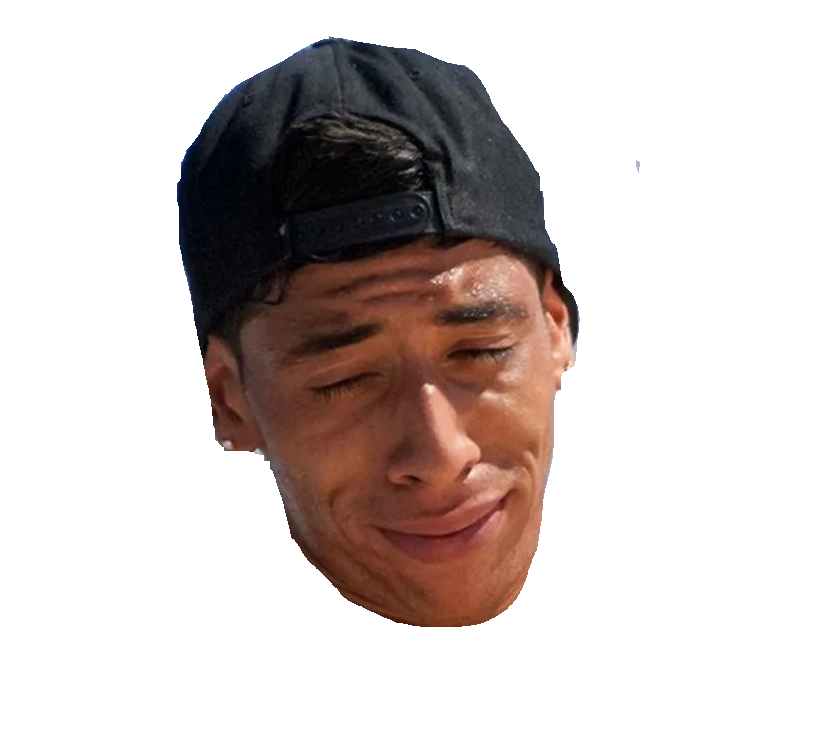
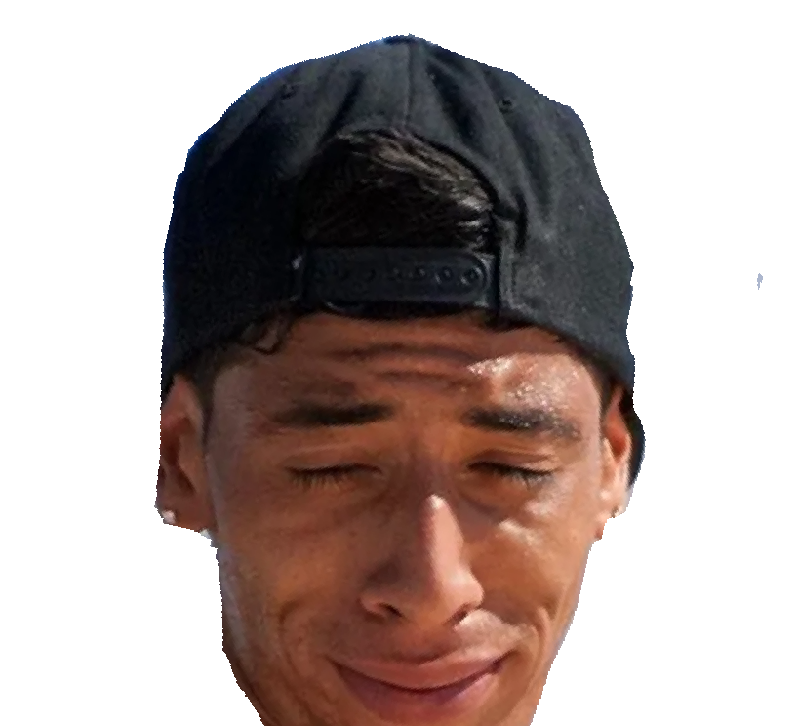
portraits housekeeping

diff --git a/src/data/winnersTable.js b/src/data/winnersTable.js
@@ -5,10 +5,10 @@ export const wins = [
 	 {year: 2004, basket3x3Pic: '',breakDancePic: '', fmbDirtJumpPic: '', mtbDowntownWomenPic: '',mtbDowntownMenPic: '', flatLandPic: '', bmxStreetPic: '', bmxParkWomenPic: '', bmxParkMenPic: '',miniRampPic: '',skateWomenPic: '', skateMenPic: 'images/chami.jpeg', basket3x3: "", breakDance: "", fmbDirtJump: "", mtbDowntownWomen: "",mtbDowntownMen: "", flatland: "", bmxStreet: "" ,bmxParkWomen: "", bmxParkMen: "", skateWomen: "", miniramp: "", skateMen: "Marcos Chami (ARG)"},
 	 {year: 2005, basket3x3Pic: '',breakDancePic: '', fmbDirtJumpPic: '', mtbDowntownWomenPic: '',mtbDowntownMenPic: '', flatLandPic: '', bmxStreetPic: '', bmxParkWomenPic: '', bmxParkMenPic: '',miniRampPic: '',skateWomenPic: '', skateMenPic: 'images/lougedo.jpeg', basket3x3: "", breakDance: "", fmbDirtJump: "", mtbDowntownWomen: "",mtbDowntownMen: "", flatland: "", bmxStreet: "" ,bmxParkWomen: "", bmxParkMen: "", skateWomen: "", miniramp: "", skateMen: "David Lougedo (ESP)"},
 	 {year: 2006, basket3x3Pic: '',breakDancePic: '', fmbDirtJumpPic: '', mtbDowntownWomenPic: '',mtbDowntownMenPic: '', flatLandPic: '', bmxStreetPic: '', bmxParkWomenPic: '', bmxParkMenPic: '',miniRampPic: '',skateWomenPic: '', skateMenPic: 'images/acosta.jpeg', basket3x3: "", breakDance: "", fmbDirtJump: "", mtbDowntownWomen: "",mtbDowntownMen: "", flatland: "", bmxStreet: "" ,bmxParkWomen: "", bmxParkMen: "", skateWomen: "", miniramp: "", skateMen: "Orlando Acosta (ESP)"},
-	 {year: 2007, basket3x3Pic: '',breakDancePic: 'images/GaiolinRoots.png', fmbDirtJumpPic: '', mtbDowntownWomenPic: '',mtbDowntownMenPic: '', flatLandPic: 'images/Gomez.png', bmxStreetPic: '', bmxParkWomenPic: '', bmxParkMenPic: 'images/Mastragostino.png',miniRampPic: '',skateWomenPic: '', skateMenPic: 'images/martinez.jpeg', basket3x3: "", breakDance: "Gaiolin Roots (POR)", fmbDirtJump: "", mtbDowntownWomen: "",mtbDowntownMen: "", flatland: "Viki Gómez (ESP)", bmxStreet: "" ,bmxParkWomen: "", bmxParkMen: "Gabruel Mastragostino (ARG)",  skateWomen: "", miniramp: "", skateMen: "Milton Martínez (ARG)"},
-	 {year: 2008, basket3x3Pic: '',breakDancePic: 'images/IronSkulls.png', fmbDirtJumpPic: '', mtbDowntownWomenPic: '',mtbDowntownMenPic: '', flatLandPic: 'images/Gomez.png', bmxStreetPic: '', bmxParkWomenPic: '', bmxParkMenPic: 'images/Layos.png',miniRampPic: '',skateWomenPic: '', skateMenPic: 'images/martinez.jpeg', basket3x3: "", breakDance: "Iron Skulls (ESP)", fmbDirtJump: "", mtbDowntownWomen: "",mtbDowntownMen: "", flatland: "Viki Gómez (ESP)", bmxStreet: "" ,bmxParkWomen: "", bmxParkMen: "Sergio Layos (ESP)",  skateWomen: "", miniramp: "", skateMen: "Milton Martínez (ARG)"},
-	 {year: 2009, basket3x3Pic: '',breakDancePic: 'images/Lunatiks.png', fmbDirtJumpPic: '', mtbDowntownWomenPic: '',mtbDowntownMenPic: '', flatLandPic: '', bmxStreetPic: '', bmxParkWomenPic: '', bmxParkMenPic: 'images/Peñafiel.png',miniRampPic: '',skateWomenPic: '', skateMenPic: 'images/silva.jpeg', basket3x3: "", breakDance: "Lunatiks (ESP)", fmbDirtJump: "", mtbDowntownWomen: "",mtbDowntownMen: "", flatland: "", bmxStreet: "" ,bmxParkWomen: "", bmxParkMen: "Daniel Peñafiel (ESP)",  skateWomen: "", miniramp: "", skateMen: "Roger Silva (BRA)"},
-	 {year: 2010, basket3x3Pic: '',breakDancePic: 'images/FusionRockers.png', fmbDirtJumpPic: '', mtbDowntownWomenPic: 'images/Martinez.png',mtbDowntownMenPic: 'images/Domingues.png', flatLandPic: 'images/Dandois.png', bmxStreetPic: '', bmxParkWomenPic: '', bmxParkMenPic: 'images/Layos.png',miniRampPic: '',skateWomenPic: '', skateMenPic: 'images/martinez.jpeg', basket3x3: "", breakDance: "Fusion Rockers (ESP)", fmbDirtJump: "", mtbDowntownWomen: "Rosi Martínez (ESP)",mtbDowntownMen: "Paulo Domingues (POR)", flatland: "Matthias Dandois (FRA)", bmxStreet: "" ,bmxParkWomen: "", bmxParkMen: "Sergio Layos (ESP)",  skateWomen: "", miniramp: "", skateMen: "Milton Martínez (ARG)"},
+	 {year: 2007, basket3x3Pic: '',breakDancePic: 'images/GaiolinRoots.png', fmbDirtJumpPic: '', mtbDowntownWomenPic: '',mtbDowntownMenPic: '', flatLandPic: 'images/Gomez.png', bmxStreetPic: '', bmxParkWomenPic: '', bmxParkMenPic: 'images/Mastragostino.png',miniRampPic: '',skateWomenPic: '', skateMenPic: 'images/martinez.png', basket3x3: "", breakDance: "Gaiolin Roots (POR)", fmbDirtJump: "", mtbDowntownWomen: "",mtbDowntownMen: "", flatland: "Viki Gómez (ESP)", bmxStreet: "" ,bmxParkWomen: "", bmxParkMen: "Gabruel Mastragostino (ARG)",  skateWomen: "", miniramp: "", skateMen: "Milton Martínez (ARG)"},
+	 {year: 2008, basket3x3Pic: '',breakDancePic: 'images/IronSkulls.png', fmbDirtJumpPic: '', mtbDowntownWomenPic: '',mtbDowntownMenPic: '', flatLandPic: 'images/Gomez.png', bmxStreetPic: '', bmxParkWomenPic: '', bmxParkMenPic: 'images/Layos.png',miniRampPic: '',skateWomenPic: '', skateMenPic: 'images/martinez.png', basket3x3: "", breakDance: "Iron Skulls (ESP)", fmbDirtJump: "", mtbDowntownWomen: "",mtbDowntownMen: "", flatland: "Viki Gómez (ESP)", bmxStreet: "" ,bmxParkWomen: "", bmxParkMen: "Sergio Layos (ESP)",  skateWomen: "", miniramp: "", skateMen: "Milton Martínez (ARG)"},
+	 {year: 2009, basket3x3Pic: '',breakDancePic: 'images/Lunatiks.png', fmbDirtJumpPic: '', mtbDowntownWomenPic: '',mtbDowntownMenPic: '', flatLandPic: '', bmxStreetPic: '', bmxParkWomenPic: '', bmxParkMenPic: 'images/Peñafiel.png',miniRampPic: '',skateWomenPic: '', skateMenPic: 'images/silva.png', basket3x3: "", breakDance: "Lunatiks (ESP)", fmbDirtJump: "", mtbDowntownWomen: "",mtbDowntownMen: "", flatland: "", bmxStreet: "" ,bmxParkWomen: "", bmxParkMen: "Daniel Peñafiel (ESP)",  skateWomen: "", miniramp: "", skateMen: "Roger Silva (BRA)"},
+	 {year: 2010, basket3x3Pic: '',breakDancePic: 'images/FusionRockers.png', fmbDirtJumpPic: '', mtbDowntownWomenPic: 'images/Martinez.png',mtbDowntownMenPic: 'images/Domingues.png', flatLandPic: 'images/Dandois.png', bmxStreetPic: '', bmxParkWomenPic: '', bmxParkMenPic: 'images/Layos.png',miniRampPic: '',skateWomenPic: '', skateMenPic: 'images/martinez.png', basket3x3: "", breakDance: "Fusion Rockers (ESP)", fmbDirtJump: "", mtbDowntownWomen: "Rosi Martínez (ESP)",mtbDowntownMen: "Paulo Domingues (POR)", flatland: "Matthias Dandois (FRA)", bmxStreet: "" ,bmxParkWomen: "", bmxParkMen: "Sergio Layos (ESP)",  skateWomen: "", miniramp: "", skateMen: "Milton Martínez (ARG)"},
 	 {year: 2011, basket3x3Pic: '',breakDancePic: 'images/BarnaSquad.png', fmbDirtJumpPic: 'images/Llacondeguy.png', mtbDowntownWomenPic: 'images/Castro.png',mtbDowntownMenPic: 'images/Caballero.png', flatLandPic: 'images/Dandois.png', bmxStreetPic: '', bmxParkWomenPic: '', bmxParkMenPic: 'images/Peñafiel.png',miniRampPic: '',skateWomenPic: '', skateMenPic: 'images/estrada.png', basket3x3: "", breakDance: "Barna Squad (ESP)", fmbDirtJump: "Andreu Llacondeguy (ESP)", mtbDowntownWomen: "Eva Castro (ESP)",mtbDowntownMen: "Aaron Caballero (ESP)", flatland: "Matthias Dandois (FRA)", bmxStreet: "" ,bmxParkWomen: "", bmxParkMen: "Daniel Peñafiel (ESP)",  skateWomen: "", miniramp: "", skateMen: "Cristian Estrada (COL)"},
 	 {year: 2012, basket3x3Pic: '',breakDancePic: 'images/FusionRockers.png', fmbDirtJumpPic: 'images/Pasamonte.png', mtbDowntownWomenPic: 'images/Martinez.png',mtbDowntownMenPic: 'images/Borges.png', flatLandPic: 'images/Dandois.png', bmxStreetPic: '', bmxParkWomenPic: '', bmxParkMenPic: 'images/Peñafiel.png',miniRampPic: '',skateWomenPic: '', skateMenPic: 'images/simoes.png', basket3x3: "", breakDance: "Fusion Rockers (ESP)", fmbDirtJump: "Xavier Pasamonte (ESP)", mtbDowntownWomen: "Rosi Martínez (ESP)",mtbDowntownMen: "José Borges (POR)", flatland: "Matthias Dandois (FRA)", bmxStreet: "" ,bmxParkWomen: "", bmxParkMen: "Daniel Peñafiel (ESP)",  skateWomen: "", miniramp: "", skateMen: "Jorge Simoes (POR)"},
 	 {year: 2013, basket3x3Pic: '',breakDancePic: 'images/FusionRockers.png', fmbDirtJumpPic: 'images/Rogatkin.png', mtbDowntownWomenPic: 'images/Martinez.png',mtbDowntownMenPic: 'images/Borges.png', flatLandPic: 'images/Dandois.png', bmxStreetPic: '', bmxParkWomenPic: '', bmxParkMenPic: 'images/Dhers.png',miniRampPic: '',skateWomenPic: 'images/ginepro.png', skateMenPic: 'images/leon.png', basket3x3: "", breakDance: "Fusion Rockers (ESP)", fmbDirtJump: "Nicholi Rogatkin (USA)", mtbDowntownWomen: "Rosi Martínez (ESP)",mtbDowntownMen: "José Borges (POR)", flatland: "Matthias Dandois (FRA)", bmxStreet: "" ,bmxParkWomen: "", bmxParkMen: "Daniel Dhers (VEN)",  skateWomen: "Eugenia Ginepro (ARG)", miniramp: "", skateMen: "Danny Leon (ESP)"},
@@ -16,6 +16,6 @@ export const wins = [
 	 {year: 2015, basket3x3Pic: '',breakDancePic: 'images/MomentumCrew.png', fmbDirtJumpPic: 'images/Rogatkin.png', mtbDowntownWomenPic: 'images/Martinez.png',mtbDowntownMenPic: 'images/Caballero.png', flatLandPic: 'images/Dandois.png', bmxStreetPic: '', bmxParkWomenPic: '', bmxParkMenPic: 'images/Dhers.png',miniRampPic: '',skateWomenPic: 'images/bufoni.png', skateMenPic: 'images/giraud.png', basket3x3: "", breakDance: "Momentum Crew (POR)", fmbDirtJump: "Nicholi Rogatkin (USA)", mtbDowntownWomen: "Rosi Martínez (ESP)",mtbDowntownMen: "Aaron Caballero (ESP)", flatland: "Matthias Dandois (FRA)", bmxStreet: "" ,bmxParkWomen: "", bmxParkMen: "Daniel Dhers (VEN)",  skateWomen: "Leticia Bufoni (BRA)", miniramp: "", skateMen: "Aurelien Giraud (FRA)"},
 	 {year: 2016, basket3x3Pic: '',breakDancePic: 'images/Malaganzters.png', fmbDirtJumpPic: 'images/Couderc.png', mtbDowntownWomenPic: 'images/Martinez.png',mtbDowntownMenPic: 'images/Borges.png', flatLandPic: 'images/Jumelin.png', bmxStreetPic: '', bmxParkWomenPic: 'images/Diaz.png', bmxParkMenPic: 'images/Andreev.png',miniRampPic: 'images/leon.png',skateWomenPic: 'images/brueckler.png', skateMenPic: 'images/leon.png', basket3x3: "", breakDance: "Malaganzters (ESP)", fmbDirtJump: "Paul Couderc (FRA)", mtbDowntownWomen: "Rosi Martínez (ESP)",mtbDowntownMen: "José Borges (POR)", flatland: "Alex Jumelin (FRA)", bmxStreet: "" ,bmxParkWomen: "Katty Diaz (VEN)", bmxParkMen: "Konstantin Andreev (RUS)",  skateWomen: "Julia Brueckler (AUT)", miniramp: "Danny Leon (ESP)" , skateMen: "Danny Leon (ESP)"},
 	 {year: 2017, basket3x3Pic: '',breakDancePic: 'images/FusionRockers.png', fmbDirtJumpPic: 'images/Rogatkin.png', mtbDowntownWomenPic: 'images/Castro.png',mtbDowntownMenPic: 'images/Carballo.png', flatLandPic: 'images/Gomez.png', bmxStreetPic: 'images/Raiford.png', bmxParkWomenPic: 'images/Harambour.png', bmxParkMenPic: 'images/Camacho.png',miniRampPic: 'images/giraud.png',skateWomenPic: 'images/jacobs.png', skateMenPic: 'images/giraud.png', basket3x3: "", breakDance: "Fusion Rockers (ESP)", fmbDirtJump: "Nicholi Rogatkin (USA)", mtbDowntownWomen: "Eva Castro (ESP)",mtbDowntownMen: "Edgar Carballo (ESP)", flatland: "Viki Gómez (ESP)", bmxStreet: "Broc Raiford (USA)" ,bmxParkWomen: "Camila Harambour (CHI)", bmxParkMen: "Jonathan Camacho (COL)",  skateWomen: "Candy Jacobs (HOL)", miniramp: "Aurelien Giraud (FRA)" , skateMen: "Aurelien Giraud (FRA)"},
-	 {year: 2018, basket3x3Pic: 'images/BasketGijon.png',breakDancePic: 'images/ZooEvolution.png', fmbDirtJumpPic: 'images/Huppert.png', mtbDowntownWomenPic: 'images/Castro.png',mtbDowntownMenPic: 'images/Veiga.png', flatLandPic: 'images/Gomez.png', bmxStreetPic: 'images/Adams.png', bmxParkWomenPic: 'images/Fernández.png', bmxParkMenPic: 'images/Dhers.png',miniRampPic: 'images/ilardi.png',skateWomenPic: 'images/jacobs.png', skateMenPic: 'images/ribeiro.jpeg', basket3x3pic: 'images/logo.png', basket3x3: "Basket Gijón (ESP)", breakDance: "Zoo Evolution Kings (POR)", fmbDirtJump: "Lukas Huppert (SUI)", mtbDowntownWomen: "Eva Castro (ESP)",mtbDowntownMen: "Marco Veiga (ESP)", flatland: "Viki Gómez (ESP)", bmxStreet: "Courage Adams (ESP)" ,bmxParkWomen: "Teresa Fernández (ESP)", bmxParkMen: "Daniel Dhers (VEN)",  skateWomen: "Candy Jacobs (HOL)", miniramp: "Jake Ilardi (USA)" , skateMen: "Gustavo Ribeiro (POR)"},
+	 {year: 2018, basket3x3Pic: 'images/BasketGijon.png',breakDancePic: 'images/ZooEvolution.png', fmbDirtJumpPic: 'images/Huppert.png', mtbDowntownWomenPic: 'images/Castro.png',mtbDowntownMenPic: 'images/Veiga.png', flatLandPic: 'images/Gomez.png', bmxStreetPic: 'images/Adams.png', bmxParkWomenPic: 'images/Fernández.png', bmxParkMenPic: 'images/Dhers.png',miniRampPic: 'images/ilardi.png',skateWomenPic: 'images/jacobs.png', skateMenPic: 'images/ribeiro.png', basket3x3pic: 'images/logo.png', basket3x3: "Basket Gijón (ESP)", breakDance: "Zoo Evolution Kings (POR)", fmbDirtJump: "Lukas Huppert (SUI)", mtbDowntownWomen: "Eva Castro (ESP)",mtbDowntownMen: "Marco Veiga (ESP)", flatland: "Viki Gómez (ESP)", bmxStreet: "Courage Adams (ESP)" ,bmxParkWomen: "Teresa Fernández (ESP)", bmxParkMen: "Daniel Dhers (VEN)",  skateWomen: "Candy Jacobs (HOL)", miniramp: "Jake Ilardi (USA)" , skateMen: "Gustavo Ribeiro (POR)"},
 	 {year: 2019, basket3x3Pic: 'images/Titans.png',breakDancePic: 'images/XVIIGeneration.png', fmbDirtJumpPic: 'images/Isted.png', mtbDowntownWomenPic: 'images/Castro.png',mtbDowntownMenPic: 'images/Carballo.png', flatLandPic: 'images/Moya.png', bmxStreetPic: 'images/Adams.png', bmxParkWomenPic: 'images/Lessmann.png', bmxParkMenPic: 'images/Layos.png',miniRampPic: 'images/leon.png',skateWomenPic: 'images/keet.png', skateMenPic: 'images/monteiro.png', basket3x3pic: 'images/pic.png', basket3x3: "Titans (ESP)", breakDance: "XVII Generation (ESP)", fmbDirtJump: "Tom Isted (UK)", mtbDowntownWomen: "Eva Castro (ESP)",mtbDowntownMen: "Edgar Carballo (ESP)", flatland: "Alberto Moya (ESP)", bmxStreet: "Courage Adams (ESP)" ,bmxParkWomen: "Lara Lessmann (GER)", bmxParkMen: "Sergio Layos (ESP)",  skateWomen: "Keet Oldenbeuving (HOL)", miniramp: "Danny Leon (ESP)" , skateMen: "Ivan Monteiro (BRA)"},
 ]	 

diff --git a/src/Movi.js b/src/Movi.js
@@ -27,7 +27,7 @@ export const Movi = () => {
     const cellStyle = {
         display: 'flex',
         flexFlow: 'column',
-        padding: '20%',
+        padding: '30% 20%',
         fontSize: '0.8em',
         fontWeight: 'bold',
         color: 'gray',
@@ -35,6 +35,18 @@ export const Movi = () => {
         height: '40px',
         // borderRight: '1px solid gray',
     }
+    const cellYear = {
+        display: 'flex',
+        flexFlow: 'column',
+        padding: '30% 20%',
+        fontSize: '2em',
+        fontWeight: 'bold',
+        color: 'slateGray',
+        width: '60px',
+        height: '40px',
+        // borderRight: '1px solid gray',
+    }
+
     const cellBlack = {
         display: 'flex',
         flexFlow: 'column',
@@ -48,7 +60,9 @@ export const Movi = () => {
     }
 
     const imgSt = {
-        width: '140%'
+        width: '140%',
+        // -webkit-filter: 'grayscale(100%)', /* Safari 6.0 - 9.0 */
+        filter: 'grayscale(100%)'
     }
     
     const generateImage = (url) => {
@@ -69,7 +83,7 @@ export const Movi = () => {
                 <>
                 <div style={columnStyle}>
                     <div style={cellBlack}></div>
-                    {dataReversed.map((year) => <div style={cellBlack}>{year.year}</div>)}
+                    {dataReversed.map((year) => <div style={cellYear}>{year.year}</div>)}
                 </div>
                 <div style={columnStyle}>
                     <div style={cellBlack}>Skateboarding</div>
